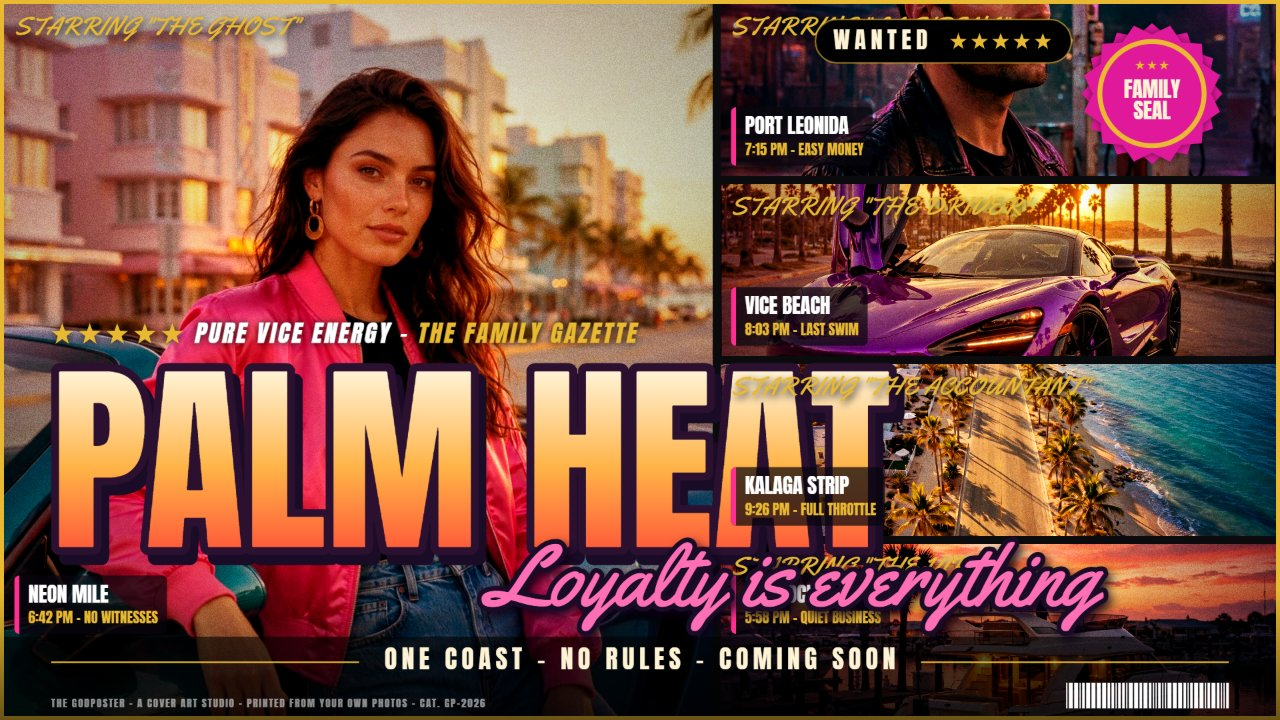
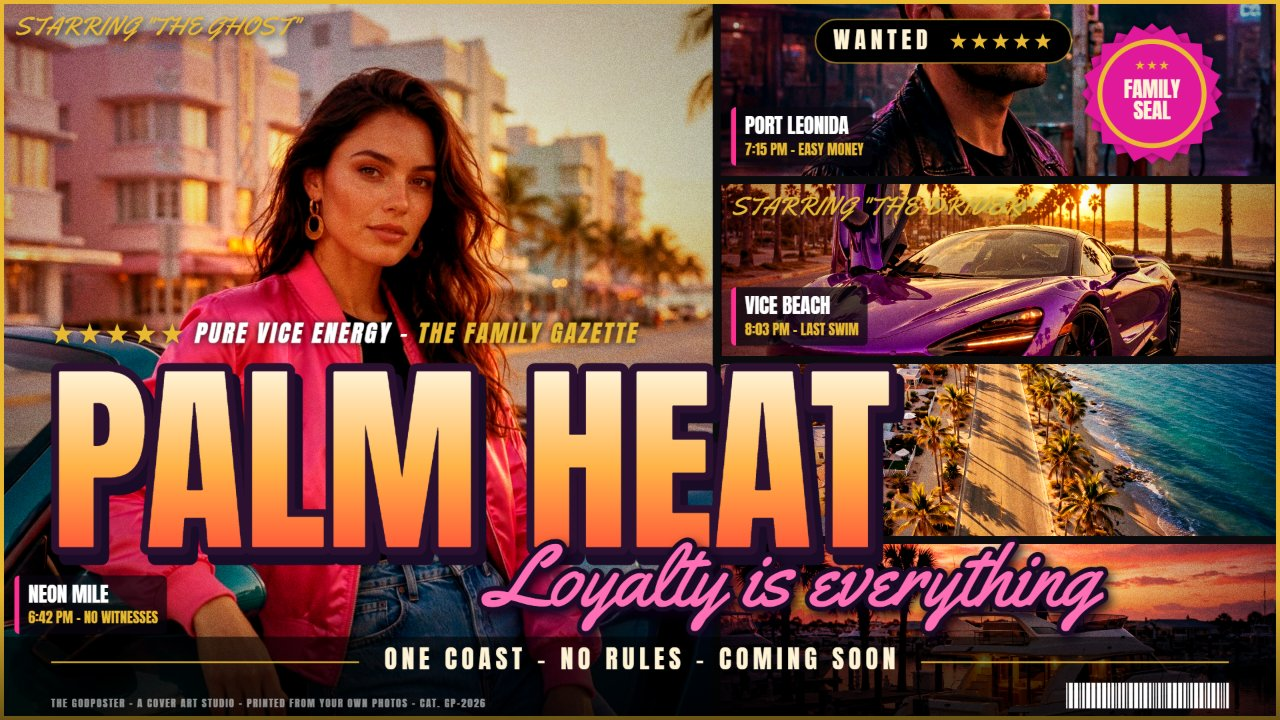
Sesi 6c: dressing collision rules, cover A recomposed

diff --git a/app/app.js b/app/app.js
@@ -231,6 +231,7 @@ function renderDressing(c, W, H) {
   // The subtitle hangs below the title ink (overlap <= 15% of its own height); room for it is reserved in the fit.
   const title = (T.title || '').trim(), sub = (T.subtitle || '').trim();
   let baseY = stripTop - W * .004, titleTop = baseY, fs = 0, tx = 0, tw = 0, subDraw = null;
+  const zones = { title: null, sub: null };   // exclusion zones handed to drawSignature
   if (title) {
     const areaBottom = stripTop - W * .004, areaW = tr ? tr.w : W;
     const maxW = .92 * areaW, maxH = tr ? areaBottom - tr.y - W * .006 : Infinity;
@@ -248,6 +249,7 @@ function renderDressing(c, W, H) {
     tw = m.width; const asc = m.actualBoundingBoxAscent;
     baseY = areaBottom - reserve; titleTop = baseY - asc - fs / 26;
     const inkBottom = baseY + m.actualBoundingBoxDescent + fs / 26;
+    zones.title = tr ? { ...tr } : { x: tx - fs / 26, y: titleTop, w: tw + fs / 13 + .006 * W, h: inkBottom - titleTop + .008 * W };
     c.font = `${fs}px Anton, Impact, sans-serif`; c.lineWidth = fs / 13;
     // 1 hard shadow, 2 stroke, 3 gradient fill
     c.fillStyle = c.strokeStyle = '#1a0b26';
@@ -264,6 +266,7 @@ function renderDressing(c, W, H) {
       sx = Math.min(sx, limit - sm.width);
       const sh = sm.actualBoundingBoxAscent + sm.actualBoundingBoxDescent;
       subDraw = { sub, sfs, x: sx, y: inkBottom - .15 * sh + sm.actualBoundingBoxAscent };
+      const pd = .006 * W; zones.sub = { x: sx - pd, y: subDraw.y - sm.actualBoundingBoxAscent - pd, w: sm.width + 2 * pd, h: sh + 2 * pd };
     }
   }
 
@@ -308,7 +311,7 @@ function renderDressing(c, W, H) {
   c.fillStyle = '#fff';
   for (const b of bars) { c.fillRect(bx, bottom - bh, b * u, bh); bx += b * u + u; }
 
-  drawSignature(c, W, H, k, gut, stripTop);
+  drawSignature(c, W, H, k, gut, stripTop, zones);
   if (subDraw) {                                   // subtitle last, with a dark shadow + outline for legibility
     c.save(); c.font = `${subDraw.sfs}px Yellowtail, cursive`; c.textAlign = 'left'; c.textBaseline = 'alphabetic';
     c.shadowColor = 'rgba(10,0,20,.85)'; c.shadowBlur = .008 * W; c.shadowOffsetX = .003 * W; c.shadowOffsetY = .004 * W;
@@ -337,14 +340,39 @@ function fitFont(c, text, family, size, maxW) {  // shrink font until text fits 
   if (w > maxW) { size *= maxW / w; c.font = `${size}px ${family}`; }
   return size;
 }
-function drawSignature(c, W, H, k, gut, stripTop) {
+const rectsHit = (a, b) => !!b && a.x < b.x + b.w && a.x + a.w > b.x && a.y < b.y + b.h && a.y + a.h > b.y;
+const circleHit = (a, o) => { const nx = Math.max(a.x, Math.min(o.x, a.x + a.w)), ny = Math.max(a.y, Math.min(o.y, a.y + a.h)); return (nx - o.x) ** 2 + (ny - o.y) ** 2 < o.r * o.r; };
+function drawSignature(c, W, H, k, gut, stripTop, zones = {}) {
   const D = state.dressing, GOLD = '#e8b931', CREAM = '#fff3d6', inset = .008 * W;
   const ANTON = 'Anton, Impact, sans-serif', YT = 'Yellowtail, cursive';
+  // seal + wanted geometry first, so chips/starring can keep out of them
+  const R = .055 * W, sx = Math.min(W - gut - inset - R, Math.max(gut + inset + R, .90 * W)), sy = Math.min(H - R - gut, Math.max(gut + inset + R, .13 * H));
+  let pill = null;
+  if (D.wanted.on) {
+    const fs = .018 * W, ls = fs * .22, sp = .0165 * W, ph = .034 * W, pad = .014 * W;
+    c.save(); c.font = `${fs}px ${ANTON}`; c.letterSpacing = `${ls}px`; const tw = c.measureText('WANTED').width; c.restore();
+    const pw = pad * 2 + tw + .012 * W + sp * 5, right = D.seal.on ? sx - R - .008 * W : W - gut - inset;
+    pill = { x: right - pw, y: gut + inset + .004 * W, w: pw, h: ph, fs, ls, sp, pad, tw };
+  }
+  const sealZone = D.seal.on ? { x: sx, y: sy, r: R * 1.02 } : null;
+  const padZ = (z, d) => z && { x: z.x - d, y: z.y - d, w: z.w + 2 * d, h: z.h + 2 * d };
+  const pillZone = padZ(pill, .004 * W);
   // per-panel chips + starring
   state.panels.forEach((p, i) => {
     const ch = D.chips[i]; if (!ch) return;
     const r = { x: p.x * k, y: p.y * k, w: p.w * k, h: p.h * k };
     const place = (ch.place || '').trim(), sub = [ch.time, ch.mood].map((v) => (v || '').trim()).filter(Boolean).join(' - ');
+    const star = (ch.starring || '').trim();
+    const drawStar = () => {
+      if (!star) return;
+      c.save(); c.textAlign = 'left'; c.textBaseline = 'top';
+      const txt = `STARRING "${star}"`, ax = r.x + inset + gut, ay = r.y + inset + gut;
+      const fsz = fitFont(c, txt, YT, .02 * W, Math.min(.92 * r.w, r.w - 2 * (inset + gut)));
+      const box = { x: ax, y: ay, w: c.measureText(txt).width + .004 * W, h: fsz * 1.3 };
+      if (rectsHit(box, zones.title) || rectsHit(box, zones.sub) || rectsHit(box, pillZone) || (sealZone && circleHit(box, sealZone))) { c.restore(); return; }
+      c.shadowColor = 'rgba(10,4,16,.85)'; c.shadowBlur = .006 * W; c.shadowOffsetX = .0015 * W; c.shadowOffsetY = .0025 * W;
+      c.fillStyle = GOLD; c.fillText(txt, ax, ay); c.restore();
+    };
     if (place) {
       c.save(); c.textAlign = 'left'; c.textBaseline = 'alphabetic';
       const f1 = .016 * W, f2 = .011 * W, pad = .007 * W, bar = .004 * W;
@@ -354,29 +382,22 @@ function drawSignature(c, W, H, k, gut, stripTop) {
       const sc = Math.min(1, maxTextW / Math.max(w1, w2, 1)); a *= sc; b *= sc; w1 *= sc; w2 *= sc;
       const bw = bar + pad * 2 + Math.max(w1, w2), bh = pad * 2 + a + (sub ? b + a * .3 : 0);
       const bx = r.x + inset + gut, by = Math.min(r.y + r.h - inset - gut, stripTop - .006 * W) - bh;
+      const box = { x: bx, y: by, w: bw, h: bh };
+      if (rectsHit(box, zones.title) || rectsHit(box, zones.sub)) { c.restore(); return drawStar(); }   // chip collides with title/subtitle: skip it
       c.fillStyle = 'rgba(8,6,14,.72)'; rrect(c, bx, by, bw, bh, .004 * W); c.fill();
       c.fillStyle = '#ff2f92'; c.save(); rrect(c, bx, by, bw, bh, .004 * W); c.clip(); c.fillRect(bx, by, bar, bh); c.restore();
       c.fillStyle = '#fff'; c.font = `${a}px ${ANTON}`; c.fillText(place, bx + bar + pad, by + pad + a * .88);
       if (sub) { c.fillStyle = GOLD; c.font = `${b}px ${ANTON}`; c.fillText(sub, bx + bar + pad, by + pad + a + a * .3 + b * .88); }
       c.restore();
     }
-    const star = (ch.starring || '').trim();
-    if (star) {
-      c.save(); c.textAlign = 'left'; c.textBaseline = 'top';
-      const txt = `STARRING "${star}"`; fitFont(c, txt, YT, .02 * W, r.w - 2 * (inset + gut));
-      c.shadowColor = 'rgba(10,4,16,.85)'; c.shadowBlur = .006 * W; c.shadowOffsetX = .0015 * W; c.shadowOffsetY = .0025 * W;
-      c.fillStyle = GOLD; c.fillText(txt, r.x + inset + gut, r.y + inset + gut); c.restore();
-    }
+    drawStar();
   });
 
   // wanted pill: top-right inside the frame, left of the seal when both are on
-  const R = .055 * W, sx = Math.min(W - gut - inset - R, Math.max(gut + inset + R, .90 * W)), sy = Math.min(H - R - gut, Math.max(gut + inset + R, .13 * H));
-  if (D.wanted.on) {
+  if (pill) {
+    const { x: px, y: py, w: pw, h: ph, fs, ls, sp, pad, tw } = pill;
     c.save(); c.textAlign = 'left'; c.textBaseline = 'alphabetic';
-    const fs = .018 * W, ls = fs * .22, sp = .0165 * W, ph = .034 * W, pad = .014 * W;
-    c.font = `${fs}px ${ANTON}`; c.letterSpacing = `${ls}px`; const tw = c.measureText('WANTED').width;
-    const pw = pad * 2 + tw + .012 * W + sp * 5;
-    const right = D.seal.on ? sx - R - .008 * W : W - gut - inset, px = right - pw, py = gut + inset + .004 * W;
+    c.font = `${fs}px ${ANTON}`; c.letterSpacing = `${ls}px`;
     c.fillStyle = '#000'; rrect(c, px, py, pw, ph, ph / 2); c.fill();
     c.strokeStyle = 'rgba(232,185,49,.6)'; c.lineWidth = Math.max(1, W * .0012); c.stroke();
     c.fillStyle = CREAM; c.fillText('WANTED', px + pad, py + ph / 2 + fs * .36);
